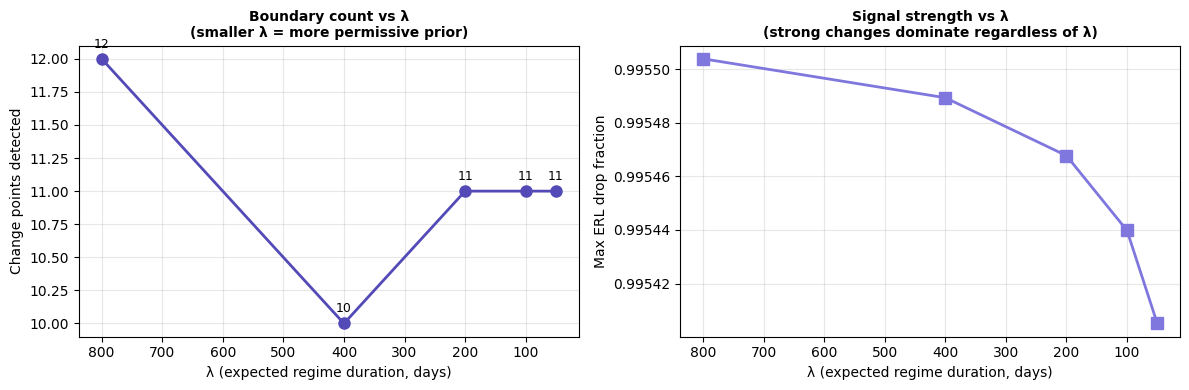
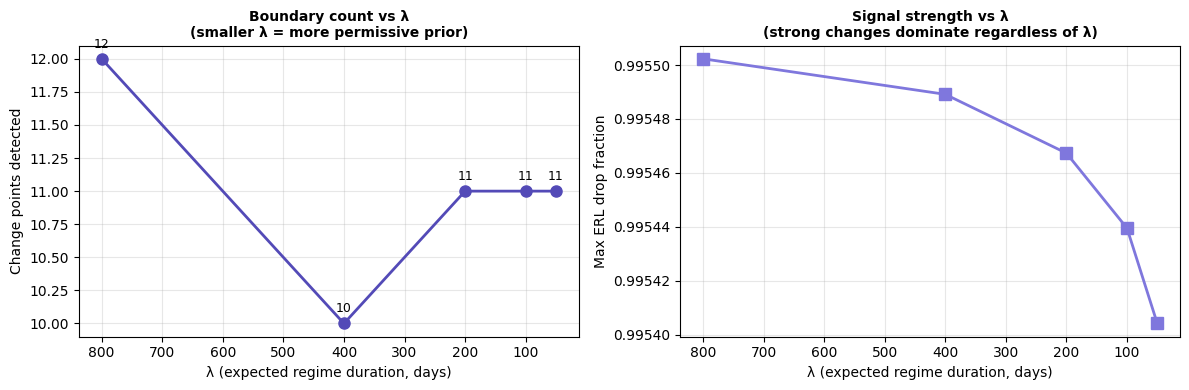
Fix experiment date ranges with END_DATE to ensure reproducibility
Add END_DATE = "2026-03-16" to both experiment notebooks so results
don't change as new trading days are added. The demo notebook already
had a fixed end date.

diff --git a/examples/bocpd_experiments.py b/examples/bocpd_experiments.py
@@ -18,7 +18,7 @@
 # # BOCPD Experiments: Systematic Sensitivity Analysis
 #
 # This notebook characterises how BOCPD's output changes under its
-# principal design choices, using SPY daily data from 2020 onward.
+# principal design choices, using SPY daily data from 2020-01-01 to 2026-03-16.
 # Data and features are provided by `finfeatures` throughout.
 #
 # All five experiments share a single feature matrix and run in one
@@ -94,9 +94,10 @@ print("Imports OK")
 # %%
 TICKER = "SPY"
 START_DATE = "2020-01-01"
+END_DATE = "2026-03-16"
 
 source = YFinanceSource()
-raw = source.fetch(TICKER, start=START_DATE)
+raw = source.fetch(TICKER, start=START_DATE, end=END_DATE)
 
 print(f"Loaded {TICKER}: {len(raw)} rows")
 print(f"Date range: {raw.index[0].date()} to {raw.index[-1].date()}")

diff --git a/examples/bocpd_experiments_univariate.py b/examples/bocpd_experiments_univariate.py
@@ -83,16 +83,17 @@ print("Imports OK")
 # ---
 # ## Shared data
 #
-# SPY close prices from 2020-01-01 onward, converted to log returns
-# via `np.diff(np.log(close))`. This loses the first observation,
-# giving T ≈ 1300 time steps of a single 1D feature.
+# SPY close prices from 2020-01-01 to 2026-03-16, converted to log
+# returns via `np.diff(np.log(close))`. This loses the first
+# observation, giving T ≈ 1550 time steps of a single 1D feature.
 
 # %%
 TICKER = "SPY"
 START_DATE = "2020-01-01"
+END_DATE = "2026-03-16"
 
 source = YFinanceSource()
-raw = source.fetch(TICKER, start=START_DATE)
+raw = source.fetch(TICKER, start=START_DATE, end=END_DATE)
 close = raw["close"].dropna()
 
 print(f"Loaded {TICKER}: {len(close)} prices")

diff --git a/examples/rendered/bocpd_experiments_univariate.md b/examples/rendered/bocpd_experiments_univariate.md
@@ -69,25 +69,26 @@ print("Imports OK")
 ---
 ## Shared data
 
-SPY close prices from 2020-01-01 onward, converted to log returns
-via `np.diff(np.log(close))`. This loses the first observation,
-giving T ≈ 1300 time steps of a single 1D feature.
+SPY close prices from 2020-01-01 to 2026-03-16, converted to log
+returns via `np.diff(np.log(close))`. This loses the first
+observation, giving T ≈ 1550 time steps of a single 1D feature.
 
 
 ```python
 TICKER = "SPY"
 START_DATE = "2020-01-01"
+END_DATE = "2026-03-16"
 
 source = YFinanceSource()
-raw = source.fetch(TICKER, start=START_DATE)
+raw = source.fetch(TICKER, start=START_DATE, end=END_DATE)
 close = raw["close"].dropna()
 
 print(f"Loaded {TICKER}: {len(close)} prices")
 print(f"Date range: {close.index[0].date()} to {close.index[-1].date()}")
 ```
 
-    Loaded SPY: 1558 prices
-    Date range: 2020-01-02 to 2026-03-16
+    Loaded SPY: 1557 prices
+    Date range: 2020-01-02 to 2026-03-13
 
 
 
@@ -118,10 +119,10 @@ KNOWN_EVENTS = {
 price = close.reindex(dates)
 ```
 
-    Log returns: T=1557
-    Date range: 2020-01-03 to 2026-03-16
-    Mean:  0.000520
-    Std:   0.012957
+    Log returns: T=1556
+    Date range: 2020-01-03 to 2026-03-13
+    Mean:  0.000514
+    Std:   0.012958
     Min:   -0.115887
     Max:   0.099863
 
@@ -191,7 +192,7 @@ for cp in cps_baseline:
     )
 ```
 
-    Baseline BOCPD: 4.78s
+    Baseline BOCPD: 4.72s
     Detected 9 change points:
       2020-02-25  90% CI [2020-02-13 -- 2020-02-24]  (11d wide)  severity=0.92
       2020-06-11  90% CI [2020-03-26 -- 2020-05-21]  (56d wide)  severity=0.64
@@ -257,7 +258,7 @@ fig.tight_layout()
 plt.show()
 ```
 
-    /tmp/ipykernel_24673/3137169141.py:48: UserWarning: This figure includes Axes that are not compatible with tight_layout, so results might be incorrect.
+    /tmp/ipykernel_6509/3137169141.py:48: UserWarning: This figure includes Axes that are not compatible with tight_layout, so results might be incorrect.
       fig.tight_layout()
 
 
@@ -336,19 +337,19 @@ for lam in LAMBDAS:
     λ sweep:
 
 
-      λ=  50  change_points= 10  (4.86s)
+      λ=  50  change_points= 10  (4.77s)
 
 
-      λ= 100  change_points=  9  (4.72s)
+      λ= 100  change_points=  9  (4.85s)
 
 
-      λ= 200  change_points=  8  (4.85s)
+      λ= 200  change_points=  8  (4.72s)
 
 
-      λ= 400  change_points=  8  (4.68s)
+      λ= 400  change_points=  8  (4.78s)
 
 
-      λ= 800  change_points=  7  (4.86s)
+      λ= 800  change_points=  7  (4.69s)
 
 
 
@@ -523,13 +524,13 @@ for name, hazard in hazard_configs.items():
     Hazard comparison:
 
 
-      Constant  (λ=100)                    CPs=  9  (4.81s)
+      Constant  (λ=100)                    CPs=  9  (4.76s)
 
 
-      Increasing (scale=100)               CPs= 16  (4.87s)
+      Increasing (scale=100)               CPs= 16  (4.69s)
 
 
-      Decreasing (sticky)                  CPs=  1  (4.66s)
+      Decreasing (sticky)                  CPs=  1  (4.71s)
 
 
 
@@ -579,7 +580,7 @@ fig.tight_layout()
 plt.show()
 ```
 
-    /tmp/ipykernel_24673/2790807388.py:42: UserWarning: This figure includes Axes that are not compatible with tight_layout, so results might be incorrect.
+    /tmp/ipykernel_6509/2790807388.py:42: UserWarning: This figure includes Axes that are not compatible with tight_layout, so results might be incorrect.
       fig.tight_layout()
 
 
@@ -663,31 +664,31 @@ for kappa0 in KAPPA0_VALS:
     NIG prior sensitivity grid:
 
 
-      κ₀= 0.01  α₀=  1.0  CPs=  9  (4.88s)
+      κ₀= 0.01  α₀=  1.0  CPs=  9  (4.69s)
 
 
-      κ₀= 0.01  α₀=  5.0  CPs= 12  (4.76s)
+      κ₀= 0.01  α₀=  5.0  CPs= 12  (4.70s)
 
 
-      κ₀= 0.01  α₀= 20.0  CPs= 15  (4.81s)
+      κ₀= 0.01  α₀= 20.0  CPs= 15  (4.63s)
 
 
-      κ₀= 0.10  α₀=  1.0  CPs=  9  (4.75s)
+      κ₀= 0.10  α₀=  1.0  CPs=  9  (4.65s)
 
 
-      κ₀= 0.10  α₀=  5.0  CPs= 13  (4.89s)
+      κ₀= 0.10  α₀=  5.0  CPs= 13  (4.77s)
 
 
-      κ₀= 0.10  α₀= 20.0  CPs= 16  (4.81s)
+      κ₀= 0.10  α₀= 20.0  CPs= 16  (4.65s)
 
 
-      κ₀= 1.00  α₀=  1.0  CPs=  7  (4.77s)
+      κ₀= 1.00  α₀=  1.0  CPs=  7  (4.71s)
 
 
-      κ₀= 1.00  α₀=  5.0  CPs= 10  (4.72s)
+      κ₀= 1.00  α₀=  5.0  CPs= 10  (4.60s)
 
 
-      κ₀= 1.00  α₀= 20.0  CPs= 16  (4.75s)
+      κ₀= 1.00  α₀= 20.0  CPs= 16  (4.74s)
 
 
 
@@ -858,7 +859,7 @@ print(f"  MAP only:                      {len(map_dates - erl_dates - mass_dates
       Agreement (ERL ∩ mass):        3
       Agreement (all three):         2
       ERL only:                      5
-      MAP only:                      12
+      MAP only:                      11
 
 
 
@@ -977,7 +978,7 @@ print(f"{'Exp 5 — Posterior mass extraction':<40} {len(cps_mass):>5}")
     =================================================================
     Experiment                                 CPs      Time
     -----------------------------------------------------------------
-    Exp 1 — Baseline (λ=100, NIG)                9     4.78s
+    Exp 1 — Baseline (λ=100, NIG)                9     4.72s
     Exp 2 — λ=50                                10
     Exp 2 — λ=100                                9
     Exp 2 — λ=200                                8

diff --git a/examples/rendered/bocpd_experiments.md b/examples/rendered/bocpd_experiments.md
@@ -1,7 +1,7 @@
 # BOCPD Experiments: Systematic Sensitivity Analysis
 
 This notebook characterises how BOCPD's output changes under its
-principal design choices, using SPY daily data from 2020 onward.
+principal design choices, using SPY daily data from 2020-01-01 to 2026-03-16.
 Data and features are provided by `finfeatures` throughout.
 
 All five experiments share a single feature matrix and run in one
@@ -81,17 +81,18 @@ mean and covariance of the features.
 ```python
 TICKER = "SPY"
 START_DATE = "2020-01-01"
+END_DATE = "2026-03-16"
 
 source = YFinanceSource()
-raw = source.fetch(TICKER, start=START_DATE)
+raw = source.fetch(TICKER, start=START_DATE, end=END_DATE)
 
 print(f"Loaded {TICKER}: {len(raw)} rows")
 print(f"Date range: {raw.index[0].date()} to {raw.index[-1].date()}")
 print(f"Columns: {list(raw.columns)}")
 ```
 
-    Loaded SPY: 1558 rows
-    Date range: 2020-01-02 to 2026-03-16
+    Loaded SPY: 1557 rows
+    Date range: 2020-01-02 to 2026-03-13
     Columns: ['open', 'high', 'low', 'close', 'volume']
 
 
@@ -123,11 +124,11 @@ KNOWN_EVENTS = {
 }
 ```
 
-    Feature matrix: T=1558, D=5
+    Feature matrix: T=1557, D=5
     Features: ['log_open', 'log_high', 'log_low', 'log_close', 'log_volume']
-    Date range: 2020-01-02 to 2026-03-16
-    Mean: [ 6.0734  6.0796  6.0667  6.0736 18.1137]
-    Std:  [0.2567 0.2549 0.2584 0.2567 0.4004]
+    Date range: 2020-01-02 to 2026-03-13
+    Mean: [ 6.0731  6.0794  6.0664  6.0733 18.1136]
+    Std:  [0.2566 0.2547 0.2582 0.2565 0.4005]
 
 
 ---
@@ -197,7 +198,7 @@ for cp in cps_baseline:
     )
 ```
 
-    Baseline BOCPD: 1.00s
+    Baseline BOCPD: 0.97s
     Detected 11 change points:
       2020-02-24  90% CI [2020-02-20 -- 2020-02-28]  (8d wide)  severity=0.97
       2020-05-14  90% CI [2020-04-06 -- 2020-04-15]  (9d wide)  severity=0.86
@@ -273,7 +274,7 @@ fig.tight_layout()
 plt.show()
 ```
 
-    /tmp/ipykernel_8860/1939338632.py:56: UserWarning: This figure includes Axes that are not compatible with tight_layout, so results might be incorrect.
+    /tmp/ipykernel_30836/1939338632.py:56: UserWarning: This figure includes Axes that are not compatible with tight_layout, so results might be incorrect.
       fig.tight_layout()
 
 
@@ -342,19 +343,19 @@ for lam in LAMBDAS:
     λ sweep:
 
 
-      λ=  50  change_points= 11  (0.99s)
+      λ=  50  change_points= 11  (1.01s)
 
 
-      λ= 100  change_points= 11  (0.99s)
+      λ= 100  change_points= 11  (1.06s)
 
 
-      λ= 200  change_points= 11  (0.97s)
+      λ= 200  change_points= 11  (1.02s)
 
 
-      λ= 400  change_points= 10  (1.04s)
+      λ= 400  change_points= 10  (1.01s)
 
 
-      λ= 800  change_points= 12  (0.98s)
+      λ= 800  change_points= 12  (1.03s)
 
 
 
@@ -541,10 +542,10 @@ for name, hazard in hazard_configs.items():
       Constant  (λ=200)                    CPs= 11  (1.03s)
 
 
-      Increasing (scale=200)               CPs= 12  (1.04s)
+      Increasing (scale=200)               CPs= 12  (1.03s)
 
 
-      Decreasing (sticky)                  CPs=  1  (1.06s)
+      Decreasing (sticky)                  CPs=  1  (1.05s)
 
 
 
@@ -594,7 +595,7 @@ fig.tight_layout()
 plt.show()
 ```
 
-    /tmp/ipykernel_8860/3876711818.py:42: UserWarning: This figure includes Axes that are not compatible with tight_layout, so results might be incorrect.
+    /tmp/ipykernel_30836/3876711818.py:42: UserWarning: This figure includes Axes that are not compatible with tight_layout, so results might be incorrect.
       fig.tight_layout()
 
 
@@ -678,31 +679,31 @@ for kappa0 in KAPPA0_VALS:
     Prior sensitivity grid:
 
 
-      κ₀=  0.1  ν₀=  7  CPs= 11  (1.01s)
+      κ₀=  0.1  ν₀=  7  CPs= 11  (1.02s)
 
 
-      κ₀=  0.1  ν₀= 15  CPs= 12  (1.02s)
+      κ₀=  0.1  ν₀= 15  CPs= 12  (1.01s)
 
 
-      κ₀=  0.1  ν₀= 55  CPs= 10  (1.01s)
+      κ₀=  0.1  ν₀= 55  CPs= 10  (1.08s)
 
 
-      κ₀=  1.0  ν₀=  7  CPs= 11  (1.01s)
+      κ₀=  1.0  ν₀=  7  CPs= 11  (1.03s)
 
 
       κ₀=  1.0  ν₀= 15  CPs= 10  (1.03s)
 
 
-      κ₀=  1.0  ν₀= 55  CPs=  7  (1.03s)
+      κ₀=  1.0  ν₀= 55  CPs=  7  (1.02s)
 
 
-      κ₀= 10.0  ν₀=  7  CPs= 13  (0.99s)
+      κ₀= 10.0  ν₀=  7  CPs= 13  (1.02s)
 
 
-      κ₀= 10.0  ν₀= 15  CPs= 10  (0.99s)
+      κ₀= 10.0  ν₀= 15  CPs= 10  (1.02s)
 
 
-      κ₀= 10.0  ν₀= 55  CPs=  6  (1.01s)
+      κ₀= 10.0  ν₀= 55  CPs=  6  (1.02s)
 
 
 
@@ -995,7 +996,7 @@ print(f"{'Exp 5 — Posterior mass extraction':<40} {len(cps_mass):>5}")
     =================================================================
     Experiment                                 CPs      Time
     -----------------------------------------------------------------
-    Exp 1 — Baseline (λ=200, Constant, D=5)     11     1.00s
+    Exp 1 — Baseline (λ=200, Constant, D=5)     11     0.97s
     Exp 2 — λ=50                                11
     Exp 2 — λ=100                               11
     Exp 2 — λ=200                               11

diff --git a/examples/rendered/demo_spy_regime_detection.md b/examples/rendered/demo_spy_regime_detection.md
@@ -172,7 +172,7 @@ fig.tight_layout()
 plt.show()
 ```
 
-    /tmp/ipykernel_18392/2422964825.py:51: UserWarning: This figure includes Axes that are not compatible with tight_layout, so results might be incorrect.
+    /tmp/ipykernel_32667/2422964825.py:51: UserWarning: This figure includes Axes that are not compatible with tight_layout, so results might be incorrect.
       fig.tight_layout()
 
 
